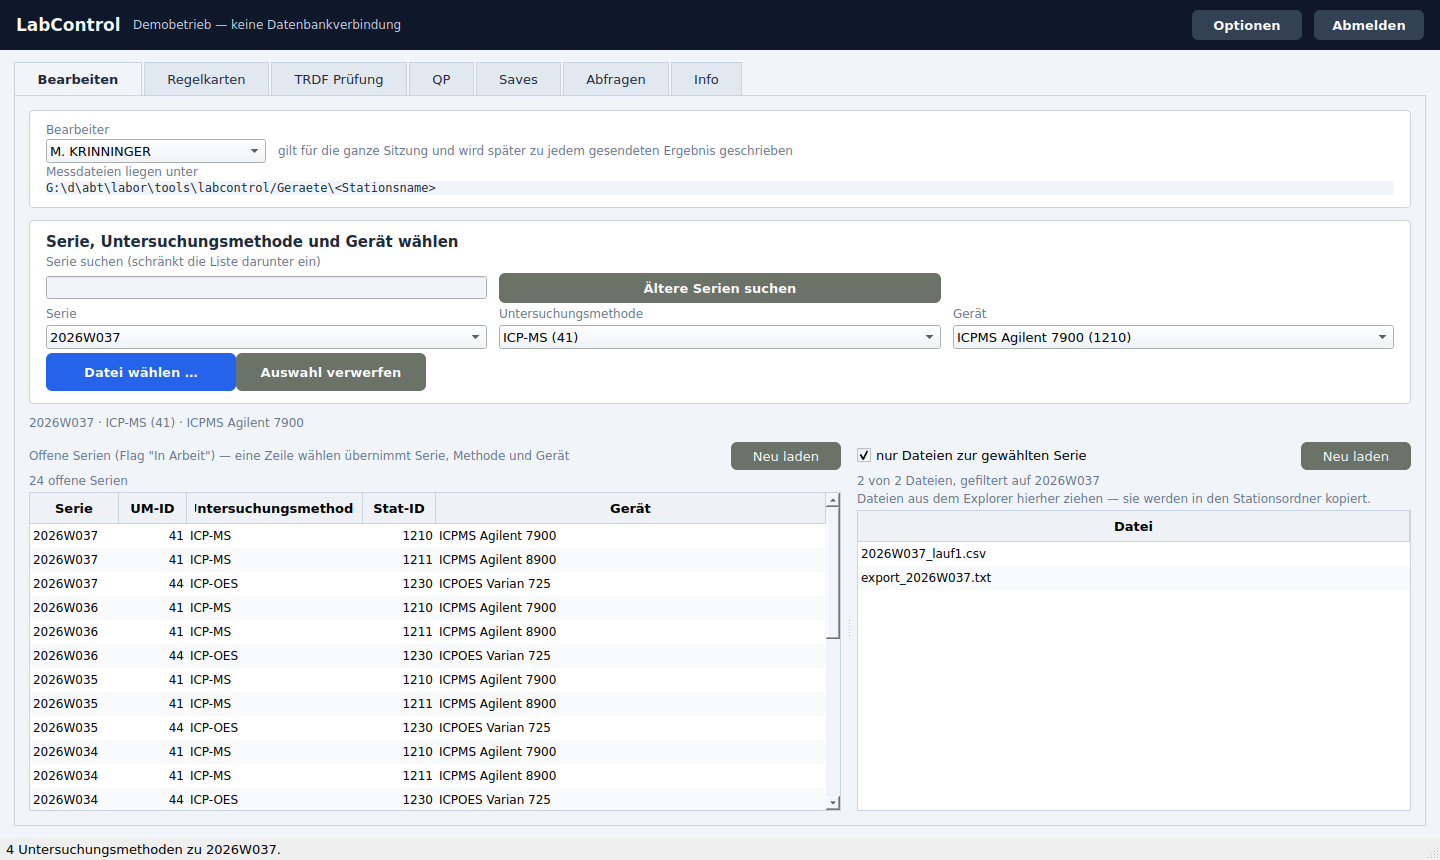
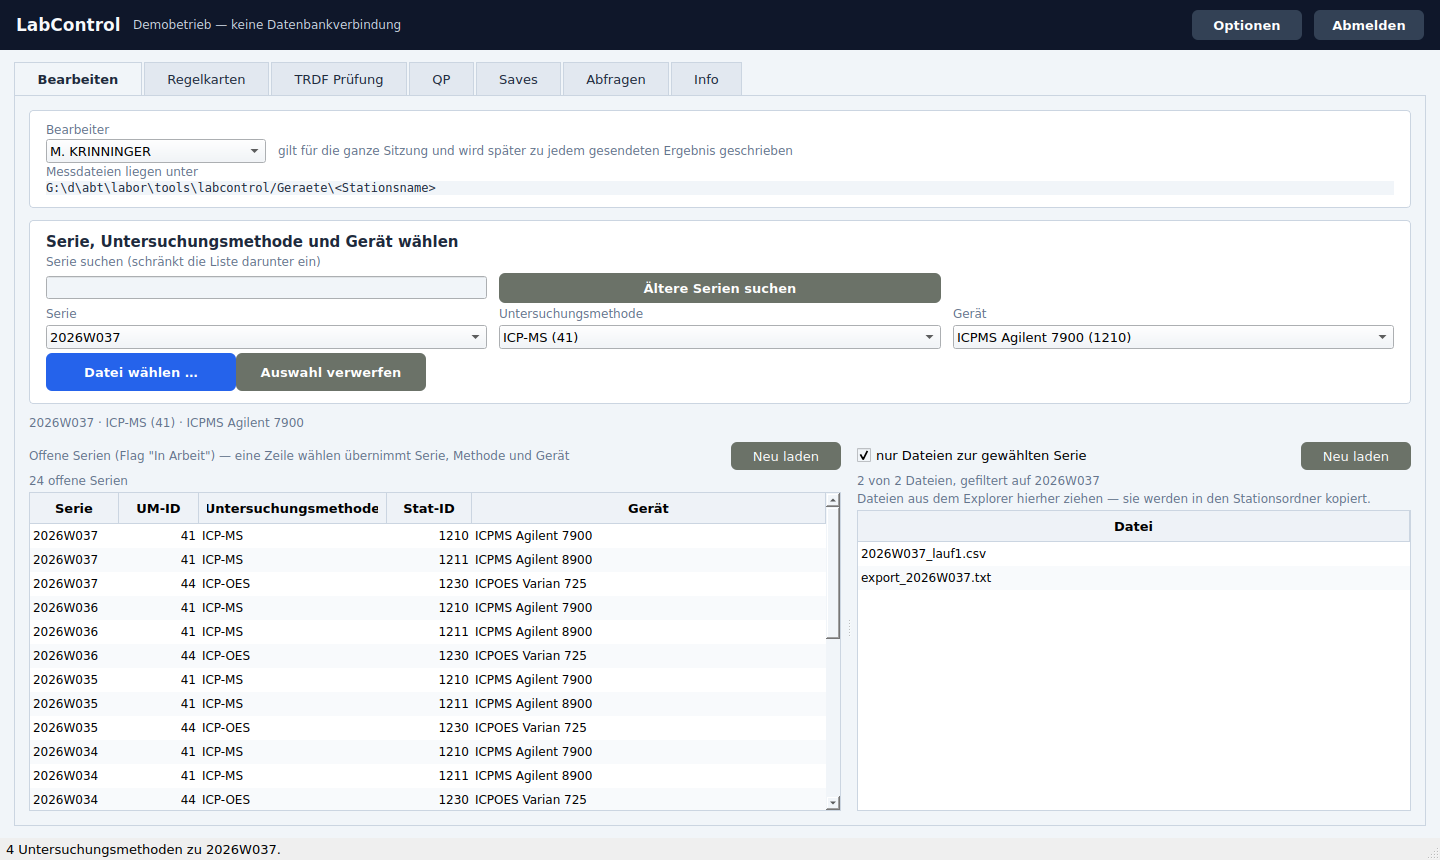
Spaltenköpfe der Rasteranzeige nicht mehr abschneiden
Gemessen wurde mit der normalen Schrift, gezeichnet wird der Kopf halbfett
(so das Stylesheet). Jede Spalte fiel dadurch zu schmal aus, und in den
Bildschirmfotos fehlte den Spaltennamen das erste Zeichen.

Claude-Session: https://claude.ai/code/session_01542McXuxmxjMuUt6V5UsL4

Changed region(s): [[0.0938, 0.5744, 0.4062, 0.9372], [0.4062, 0.5744, 0.4688, 0.6047]]

diff --git a/labcontrol_qt/raster.py b/labcontrol_qt/raster.py
@@ -17,7 +17,7 @@ from __future__ import annotations
 from typing import Callable, Iterable, Sequence
 
 from PySide6.QtCore import QAbstractTableModel, QModelIndex, Qt
-from PySide6.QtGui import QColor
+from PySide6.QtGui import QColor, QFont, QFontMetrics
 from PySide6.QtWidgets import (
     QAbstractItemView,
     QFrame,
@@ -32,7 +32,7 @@ from labcontrol_qt.stil import FARBEN, OHNE_ZAHL_BG, Stil
 
 #: So breit darf eine Spalte höchstens werden, damit ein langer Freitext
 #: nicht die ganze Tabelle aus dem Bild schiebt.
-MAX_SPALTENBREITE = 320
+MAX_SPALTENBREITE = 360
 MIN_SPALTENBREITE = 60
 
 #: Nach so vielen Zeilen hört das Messen der Spaltenbreite auf. Bei 50 000
